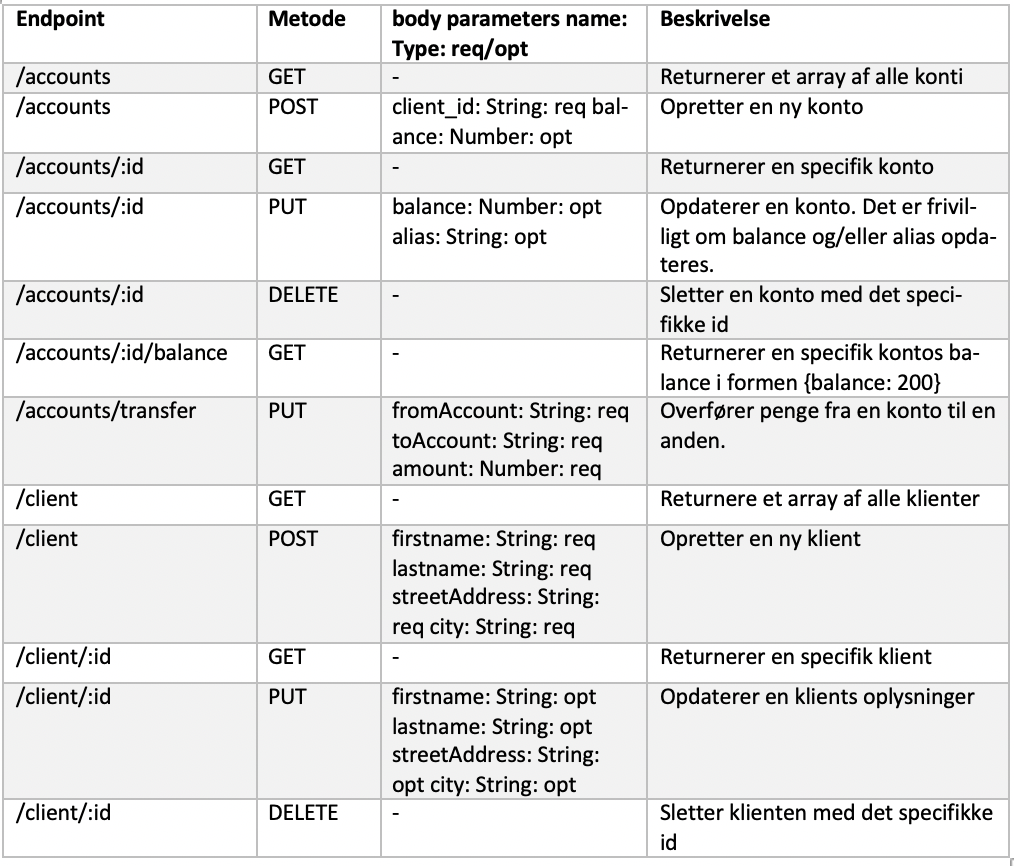
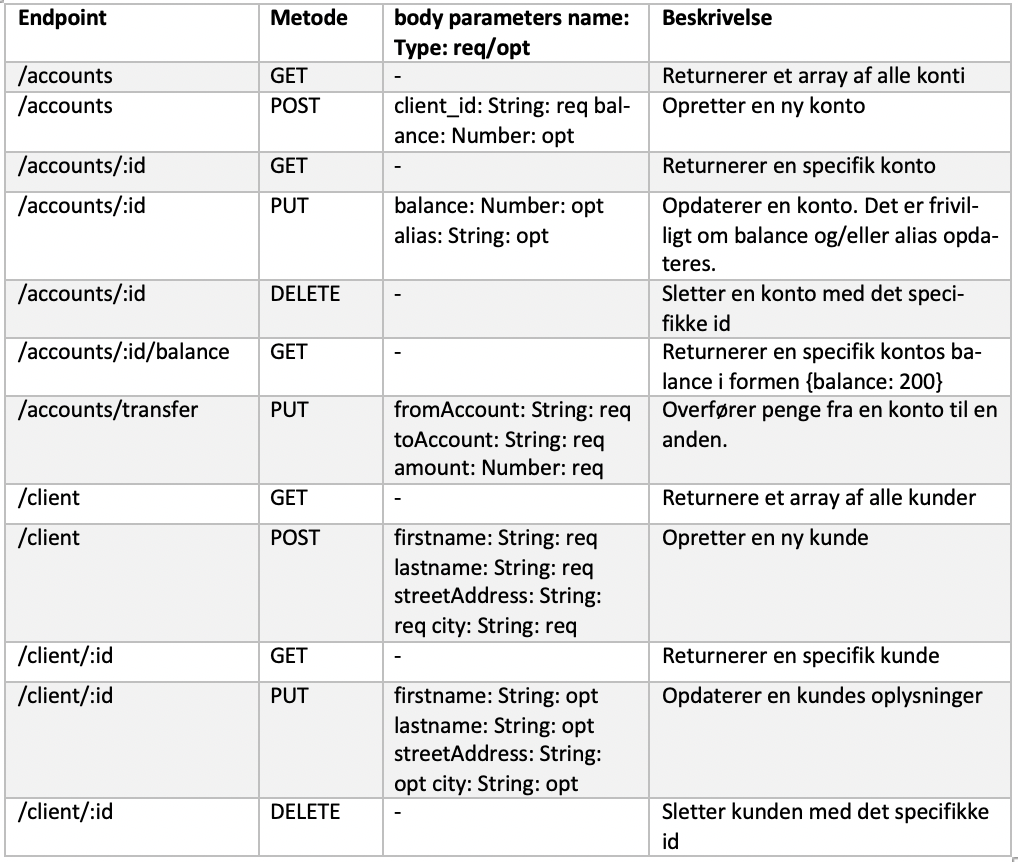
Adding comments

diff --git a/app.js b/app.js
@@ -1,27 +1,19 @@
 
 /*--app.js--------------------------APP configuration -----------------------------------------------------*/
+// In app.js we create our server application, to which the load balancer forwards client requests.
 
-
-/* Loadbalancer virker med http . IKKE https
-I server.js laver vi vores server, som load balanceren videresender client requests til.
-Vi tilføjer serveren den funktion at lægge alle tal op til 100.000 sammen, og sende summen
-samt serverens portnummer som respons til klienten, så klienten ved, hvilken server den modtager svar fra
- */
 const express = require('express');
-
 const mongoose = require('mongoose'); //5.10.12
-
 
 // Node.js body parsing middleware.
 // Used to parse incoming request bodies in a middleware before our handlers. Available in the 'req.body'-property.
 const bodyParser = require('body-parser');
 
-// Implmenting modules to use for https (ssl)
+// Implmenting modules to use for secure communication through HTTPS (SSL/TLS)
 // Importing Node.js' built-in HTTPS-module, that allows Node.js to transfer data via 'Hyper Text Transfer Protocol Secure' (HTTPS).
 const https = require('https');
 const path = require('path');
 const fs = require('fs');
-
 
 // Creating an options-object containing the self-signed certificate and private key we need for establishing the SSL connection over HTTPS
 // Creating the 'options'-object containing the path to the private key and certifikate
@@ -48,7 +40,6 @@ const ports = seaport.connect('localhost', 9090);
 // express() returns af function, designed to be passed to HTTP and HTTPS servers as a callback to handle requestes.
 const app = express();
 
-//http://expressjs.com/en/api.html#app.listen
 
 /*
 //DB connection
@@ -83,19 +74,18 @@ app.use('/', (req, res) => {
 })*/
 
 
-//Initial route
+// Initial route
 app.get('/', (req, res) => {
+    // Get port on which the specific server is running
     let port = req.socket.address().port;
     console.log('---------- Server received client request ----------');
-    console.log(`Server with port: ${port} received a message`);
+    console.log(`Server with port: ${port} received a request`);
 
-    // Sender respons til klient
+    // Sending client response with the port of the server, that the load balancer forwarded the request to
     console.log('---------- Server has sent client response ----------');
 
     res.send('Welcome to the banking app - Response from server on port: ' + port);
 });
-
-
 
 // The HTTPS-module's createServer-method creates a new server-instance
 // We pass in the httpsOptions-object containing self-signed certificate and public key
@@ -117,3 +107,6 @@ httpsServer.listen(ports.register('server'), function() {
 });
 
 // The load balancer will forward client requests to the respective server's port.
+
+
+// Src: http://expressjs.com/en/api.html#app.listen

diff --git a/loadBalancerSSL.js b/loadBalancerSSL.js
@@ -1,3 +1,4 @@
+/*--loadBalancerSSL.js-------------------------- Load balancer -----------------------------------------------------*/
 
 /*
 Here a simple load balancer is implemented based on the Round Robin-method, that forwards requests to 
@@ -14,7 +15,7 @@ As consequence the servers with less capacity will be overloaded and fail while 
 An alternative is Weighted Round Robin, which 
 */
 
-// Importorting the modules to use for HTTPS (SSL-connection)
+// Importing the modules to use for HTTPS (SSL/TLS-connection)
 const https = require('https');
 const path = require('path');
 const fs = require('fs');
@@ -23,7 +24,6 @@ const config = require('./config');
 // Importing the http-proxy-module, which is an HTTP-proxy library supporting websockets.
 // It is used to implement our load balancer
 const httpProxy = require('http-proxy');
-
 
 // Importing the 'seaport'-modulet, that is a service used to distribute requests to given ports.
 const seaport = require('seaport');
@@ -41,7 +41,6 @@ const httpsOptions = {
     key: fs.readFileSync(path.join(__dirname, 'cert', 'key.pem')),
     cert: fs.readFileSync(path.join(__dirname, 'cert', 'cert.pem'))
 }
-
 
 // Activating the validation of a secure SSL certificate to the target connection
 // Creating a new proxy using httpsProxy.createProxyServer().
@@ -95,23 +94,13 @@ let httpsServer = https.createServer(httpsOptions, function (req, res) {
     }
 });
 
-// The load balancer listens to port 3443 for HTTPS
+// The load balancer listens to port 3443 for HTTPS.
+// The load balancer exchanges equally between the registered server instances.
 httpsServer.listen(3443, function() {
     console.log('---------- LOAD BALANCER LISTENING  ----------');
     console.log('Load-balancer listening on port %d', 3443)
 });
 
 
-/*
-For at starte load balanceren skrives følgende:
-
-npm run seaport listen 9090 (da vi bruger port 9090)
-node load-balancer.js (I en anden terminal)
-node server.js (I lige så mange terminaler som vi har lyst. Hver gang dette skrives, initieres en ny server).
-
-Hvis alt er gået som planlagt, bør vi kunne skrive curl http://localhost:3443 i terminalen,
-for at sende en request til load balanceren.
-
-Hver anden request vil blive sendt til en anden port.
-
-*/
+// Don't run port lower than 1024
+// https://stackoverflow.com/questions/11744975/enabling-https-on-express-js

diff --git a/config.js b/config.js
@@ -1,6 +1,10 @@
+/*--config.js-------------------------- Configuration -----------------------------------------------------*/
+// Declaring variables for configuration of database connection and baseURL. 
+// NB: Insert the correct db url with the specific name of your database. 
 
 
   module.exports = {
+    // The db URL should be mongodb://localhost/<database name>, ie. mongodb://localhost/<database name>
     databaseUrl: 'mongodb://localhost/BankingApp?',
     baseUrl: 'https://localhost:3443'
   };

diff --git a/models/client.js b/models/client.js
@@ -1,6 +1,6 @@
 const mongoose = require('mongoose');
 
-
+// Creating the Client-model and defining the shcema of the Client-collection
 const ClientSchema = new mongoose.Schema({
     /**
      * the schema follows this structure:

diff --git a/readme.md b/readme.md
@@ -92,7 +92,7 @@ I **'controllers'-mappen** har jeg oprettet mine controllersfor hhv. account og 
    ```GET https://localhost:3443/accounts/:id```
 
 
-**4) Ændrer en konto. Det er kun balancen som kan ændres**
+**4) Opdaterer en konto**
 
    ```PUT https://localhost:3443/accounts/:id```
 
@@ -130,7 +130,7 @@ er ID'et på den konto, der skal overføres penge til. 3) 'amount', som er belø
 
    ```PUT https://localhost:3443/client/:id``` 
 
-**12) Sletter kunden med det specifikke id**
+**12) Sletter kunde med det specifikke id**
 
    ```DELETE https://localhost:3443/client/:id``` 
 
